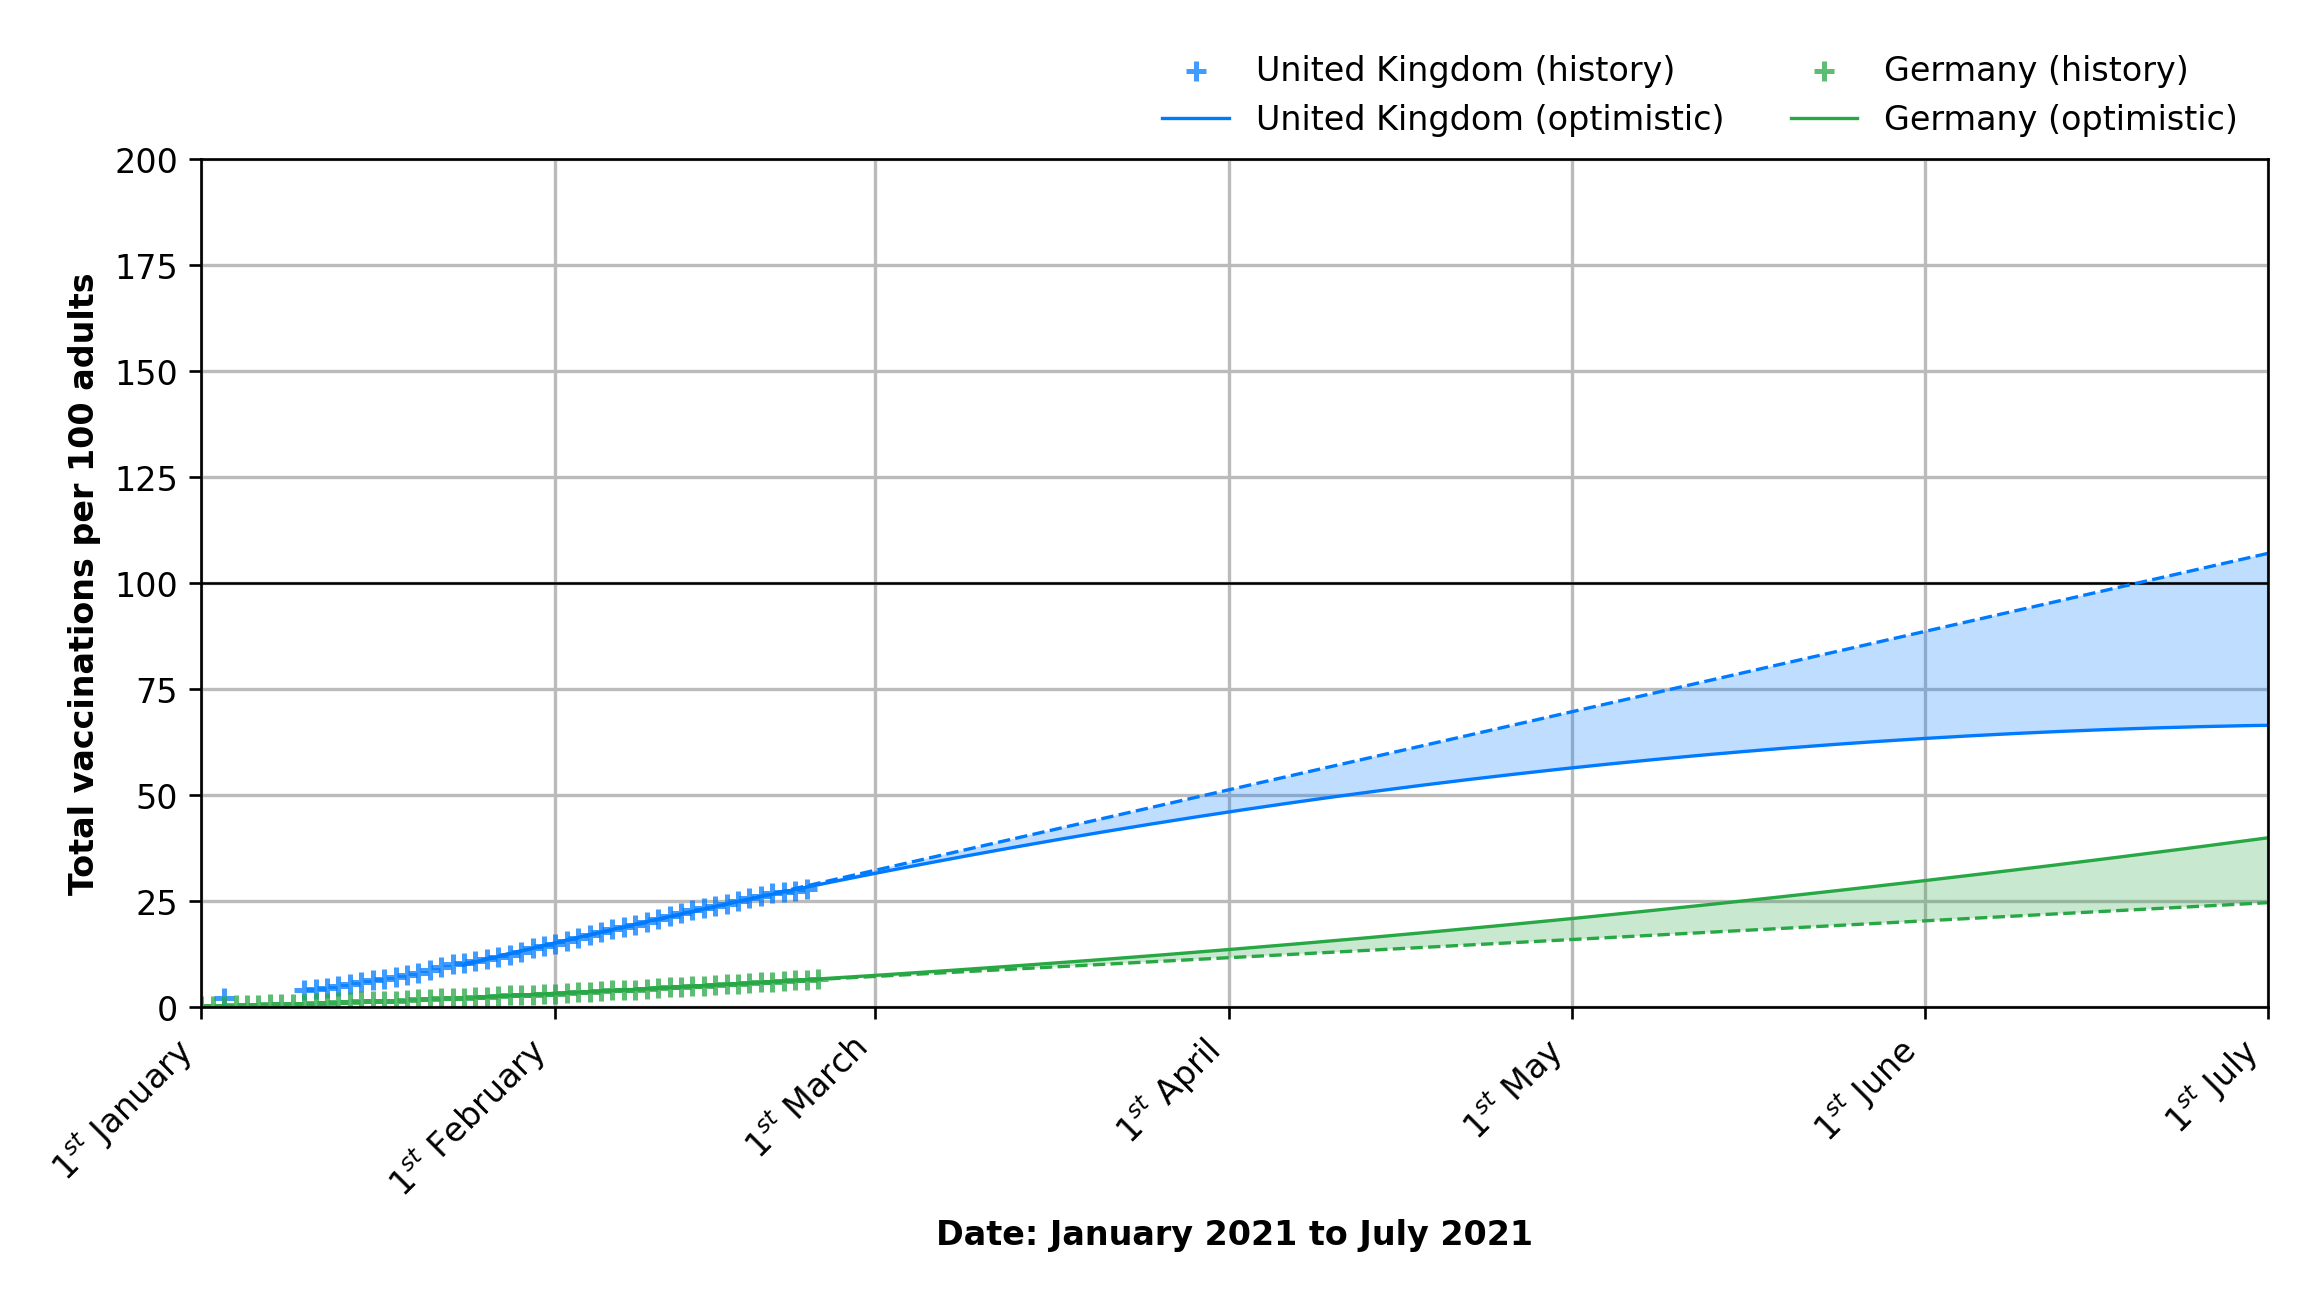
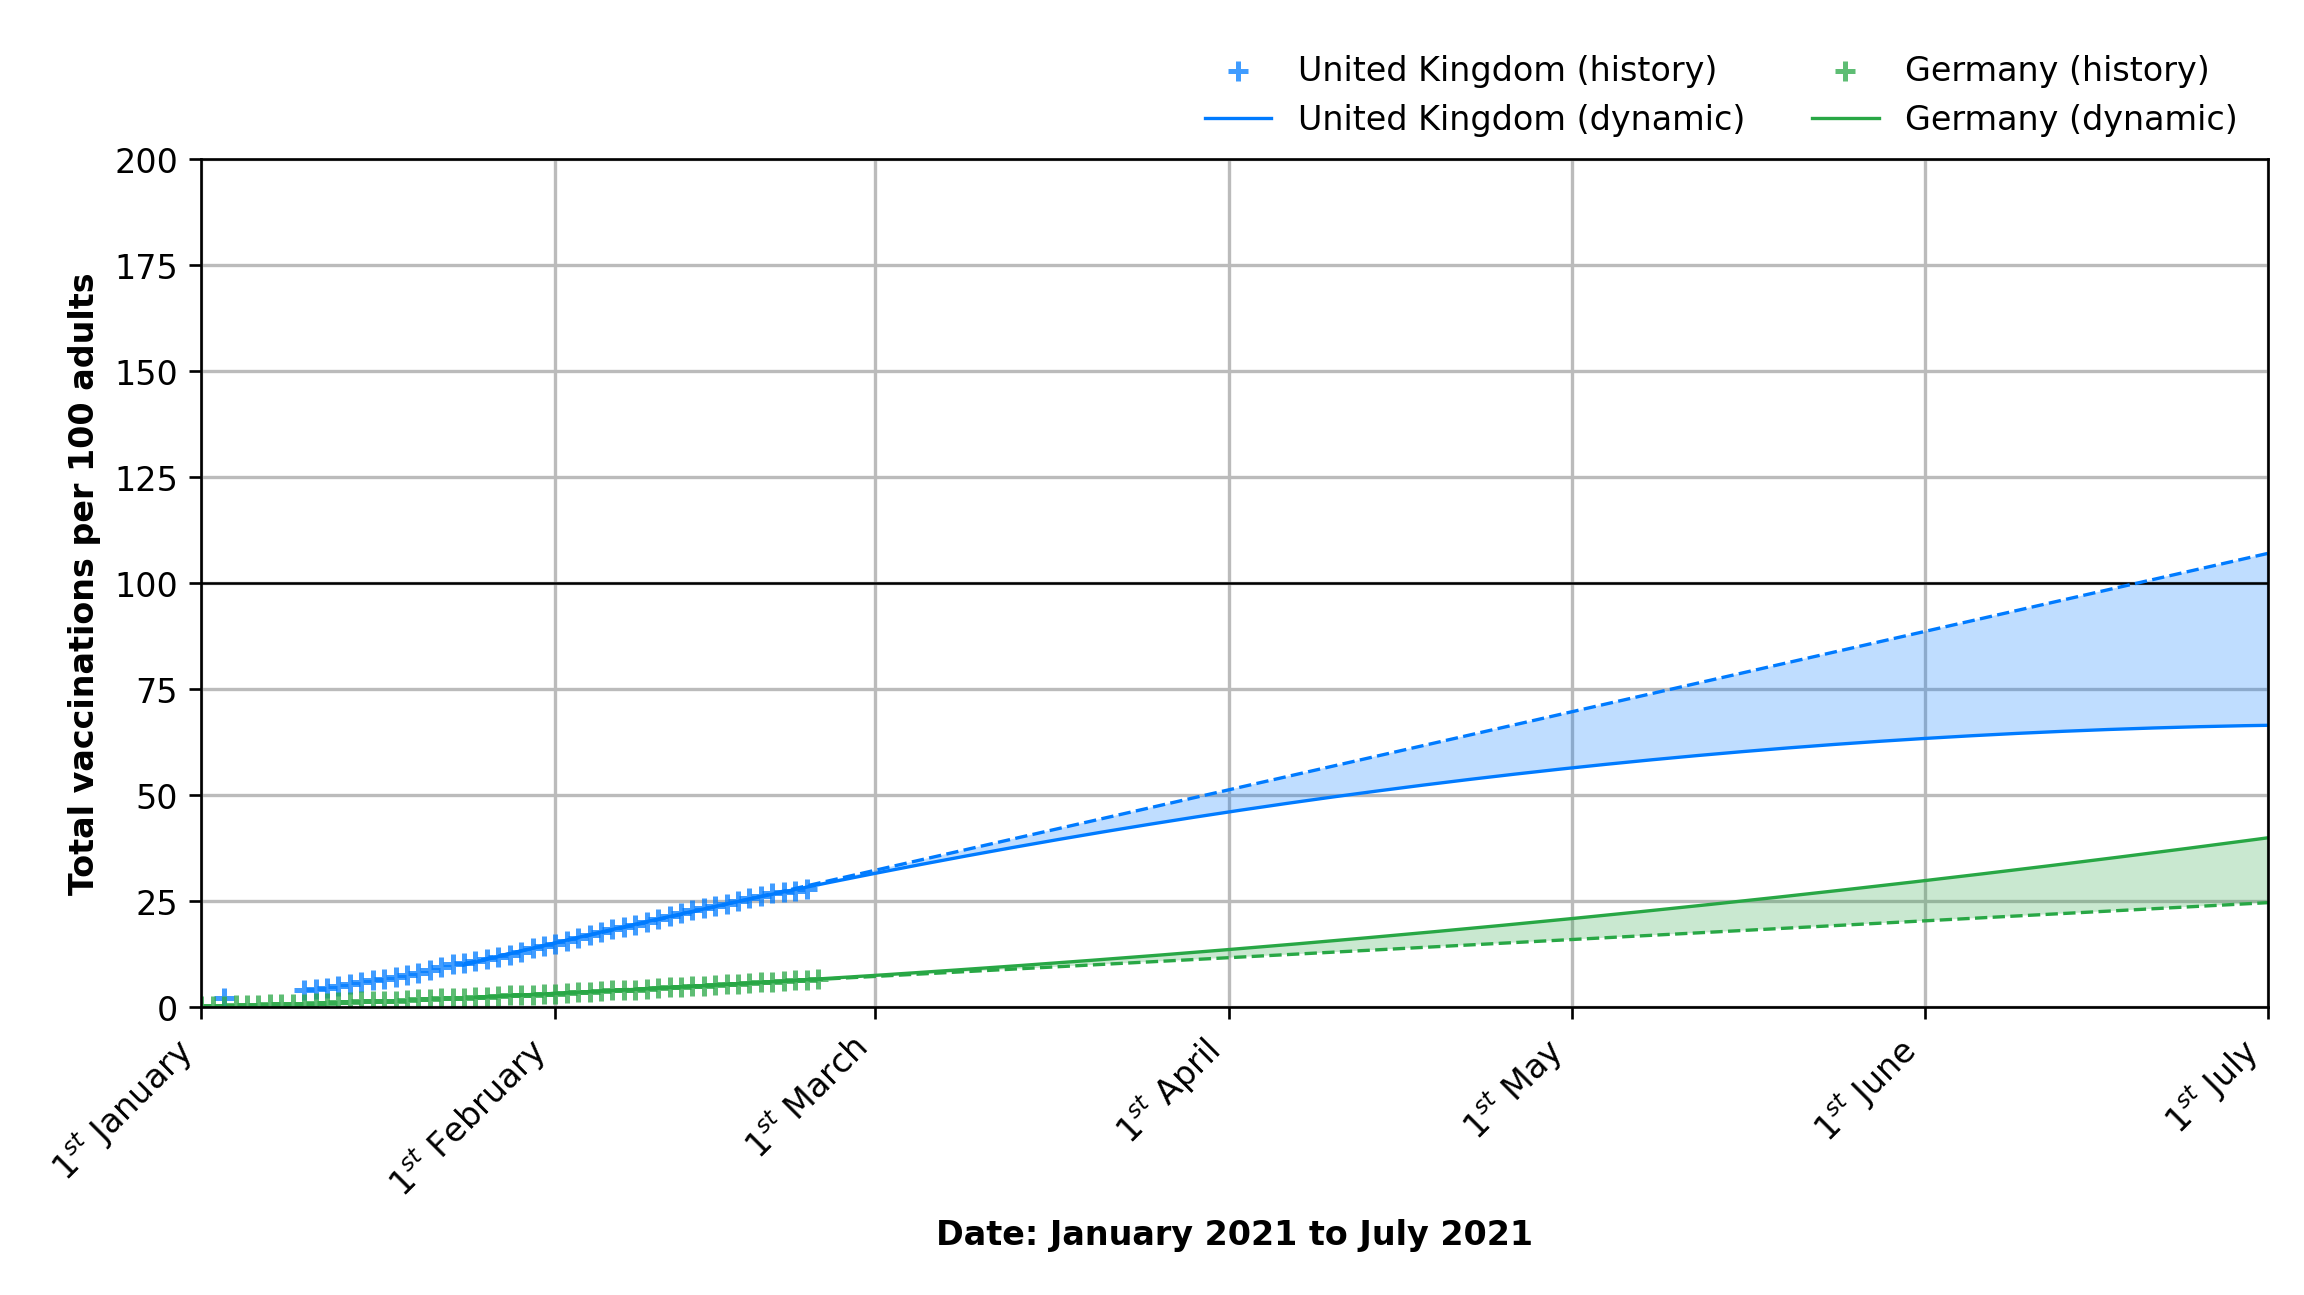
Deploying to gh-pages from @ lambdapioneer/vactrend@1b8b436be16664886d7738f8712cdc14d83be6f4 🚀

Changed region(s): [[0.5312, 0.0309, 0.75, 0.1236], [0.7812, 0.0309, 0.9688, 0.1236]]

diff --git a/index.html b/index.html
@@ -17,11 +17,10 @@
                 <h1>COVID-19 Vaccination Trends</h1>
                 <p class="lead">
                     This chart shows historical data from the United Kingdom and Germany.
-                    Additionally, it displays extrapolations based on the last 31 days for an <i>optimistic case</i> and a <i>conservative case</i>.
-                    The optimistic case assumes that the speed of vaccination continues to increase &mdash; i.e., we
+                    Additionally, it displays extrapolations based on the last 31 days for a <i>dynamic model</i> and a <i>linear model</i>.
+                    The dynamic model assumes that the vaccination rate continues to change &mdash; i.e., we
                     fitted a polynomial of degree two.
-                    The conservative case assumes that the rate of vaccination remains the same resulting in a linear
-                    trend.
+                    The linear case assumes that the rate of vaccination remains the same.
                 </p>
                 <p class="text-muted">The data is sourced from the <a href="https://ourworldindata.org/">Our World in
                         Data</a> project. Last update: 25 February 2021.</p>
@@ -40,9 +39,9 @@
                     <div class="card-body">
                         <h3 class="font-weight-bold" style="color: #007bff">27.86 <small>(+0.52/d)</small></h3>
                         <p class="mt-n2">Vaccinations per 100 adults</p>
-                        <h3 class=" font-weight-bold">31 December 2022</h3>
+                        <h3 class=" font-weight-bold">20 June 2021</h3>
                         <p class="mt-n2">Earliest day: 100 vacc. per 100 adults</p>
-                        <h3 class=" font-weight-bold">31 December 2022</h3>
+                        <h3 class=" font-weight-bold">30 November 2021</h3>
                         <p class="mt-n2">Earliest day: 200 vacc. per 100 adults</p>
                         <p class="card-text"><small class="text-muted">Last data from 23 February 2021.</small></p>
                     </div>
